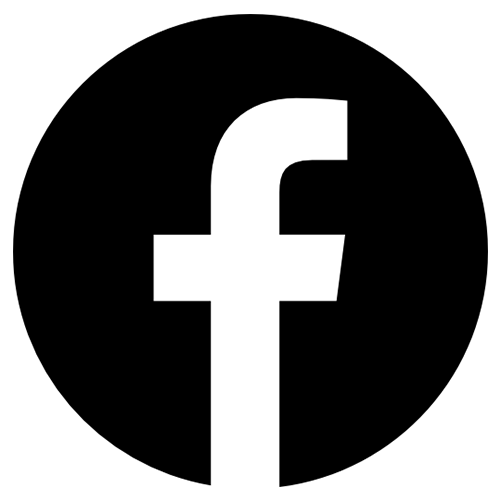
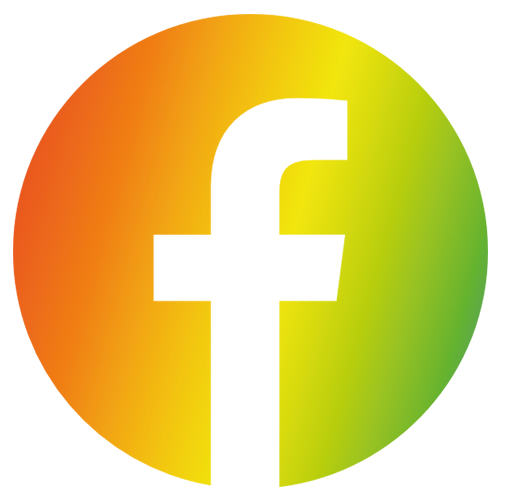
tirar o bg branco de apoio - e add os icones
proprios, por favor

editar algumas coisas
é isso

diff --git a/client/src/componentes/MainHome/MainHome.js b/client/src/componentes/MainHome/MainHome.js
@@ -14,10 +14,7 @@ import { images } from '../../data/img';
 
 
 
-function MainHome() {
-
-
-    const dataEvento = new Date(2025, 4, 7, 8, 0, 0); // Ano, Mês (0-11), Dia, Hora, Minuto, Segundo -- O mês de março é o número 2 no JavaScript, pois os meses são indexados a partir de 0.
+function MainHome() {    
 
     const [bgIndex, setBgIndex] = useState(0);
 
@@ -34,6 +31,16 @@ function MainHome() {
         return () => clearInterval(interval);
     }, []);
 
+    const [isMobile, setIsMobile] = useState(window.innerWidth <= 768);
+
+    useEffect(() => {
+        const handleResize = () => setIsMobile(window.innerWidth <= 768);
+        window.addEventListener('resize', handleResize);
+        return () => window.removeEventListener('resize', handleResize);
+    }, []);
+
+    // DAQUI PRA CIMA É EFEITO DO BG
+
     // Estado para armazenar a contagem regressiva
     const [contagem, setContagem] = useState({
         dias: 0,
@@ -41,6 +48,10 @@ function MainHome() {
         minutos: 0,
         segundos: 0,
     });
+
+    
+
+    const dataEvento = new Date(2025, 4, 7, 8, 0, 0); // Ano, Mês (0-11), Dia, Hora, Minuto, Segundo -- O mês de março é o número 2 no JavaScript, pois os meses são indexados a partir de 0.
 
     // Efeito para atualizar a contagem regressiva a cada segundo
     useEffect(() => {
@@ -84,17 +95,11 @@ function MainHome() {
         return () => typed.destroy();
     }, []);
 
-    const [isMobile, setIsMobile] = useState(window.innerWidth <= 768);
-
-    useEffect(() => {
-        const handleResize = () => setIsMobile(window.innerWidth <= 768);
-        window.addEventListener('resize', handleResize);
-        return () => window.removeEventListener('resize', handleResize);
-    }, []);
+    
 
     return (
 
-        <section className='sectionMain' style={{ backgroundImage: isMobile ? 'none' : `url(${images[bgIndex]})` }}>
+        <section style={{ backgroundImage: isMobile ? 'none' : `url(${images[bgIndex]})`}}>
 
             <div className='mainHome'>
 

diff --git a/client/src/componentes/apoio/Apoio.js b/client/src/componentes/apoio/Apoio.js
@@ -1,13 +1,42 @@
 import "./Apoio.css";
 
+import { useEffect, useState } from 'react';
+
+
+import { imagesRight } from '../../data/img';
+
 function Apoio(){
-        
+
+
+    const [bgIndex, setBgIndex] = useState(0);
+    
+    useEffect(() => {
+        const indiceAleatorio = Math.floor(Math.random() * 4) + 1; // Gera um número entre 1 e 4
+        setBgIndex(indiceAleatorio);
+        }, []);
+
+    useEffect(() => {
+        const interval = setInterval(() => {
+        setBgIndex((prevIndex) => (prevIndex + 1) % imagesRight.length);
+        }, 7000);
+
+        return () => clearInterval(interval);
+    }, []);
+
+    const [isMobile, setIsMobile] = useState(window.innerWidth <= 768);
+
+    useEffect(() => {
+        const handleResize = () => setIsMobile(window.innerWidth <= 768);
+        window.addEventListener('resize', handleResize);
+        return () => window.removeEventListener('resize', handleResize);
+    }, []);
+    
    
 
     return (
               
 
-        <section>
+        <section  style={{ backgroundImage: isMobile ? 'none' : `url(${imagesRight[bgIndex]})`}}>
 
             <h1 className="titulo">Apoio</h1>
 
@@ -54,6 +83,8 @@ function Apoio(){
                     <img className="imagem-apoio" src="https://onedrive.live.com/embed?resid=3282EDF418D3DB36%21157&authkey=%21AI3VsfN35ihYRGU"/>
                 </a>
             </div>
+
+            
 
 
 

diff --git a/client/src/componentes/cardLocation/cardLocation.js b/client/src/componentes/cardLocation/cardLocation.js
@@ -1,11 +1,34 @@
-import './cardLocation.css'
+import './cardLocation.css';
+
+import { useEffect, useState } from 'react';
+
+import { imagesLeft } from '../../data/img';
 
 
 function CardLocation(props) {
 
+    const [isMobile, setIsMobile] = useState(window.innerWidth <= 768);
+
+    const [bgIndex, setBgIndex] = useState(0);
+
+    useEffect(() => {
+            const interval = setInterval(() => {
+            setBgIndex((prevIndex) => (prevIndex + 1) % imagesLeft.length);
+            }, 7000);
+    
+            return () => clearInterval(interval);
+        }, []);
+
+    
+    useEffect(() => {
+        const handleResize = () => setIsMobile(window.innerWidth <= 768);
+        window.addEventListener('resize', handleResize);
+        return () => window.removeEventListener('resize', handleResize);
+    }, []);
+    
     return (
 
-        <section>
+        <section style={{ backgroundImage: isMobile ? 'none' : `url(${imagesLeft[bgIndex]})` }}>
 
             <h1 className="titulo">{props.title}</h1>
 
@@ -15,7 +38,7 @@ function CardLocation(props) {
 
                     
 
-            <div className="degrade"></div>
+            <div className="degradeNovo"></div>
         </section>
     );
 }

diff --git a/client/src/index.css b/client/src/index.css
@@ -42,8 +42,12 @@ section {
   background-position: center;
   background-repeat: no-repeat;
   min-height: 100vh;
+  
   overflow: hidden; /* Evita problemas de layout */
 }
+
+
+
 
 
 /* section::before {
@@ -99,11 +103,15 @@ section {
 
 .degradeNovo {
   background: linear-gradient(90deg, 
-  #e52320, #ee7316, #f1e30d, #79b929, #32778c, #234999, #452879, #e52320);
+  #e52320, #ee7316, #f1e30d, #79b929, #32778c, #234999, #452879, #e52320, #ee7316);
   background-size: 400% 400%;
   height: 4px;
-  width: 50vw;
+  width: 70vw;
   animation: hueShift 5s linear infinite;
+}
+
+.maior {
+  width: 90vw;
 }
 
 @keyframes hueShift {
@@ -117,8 +125,7 @@ section {
   font-size: 30px;
   color: red;
   
-  padding-bottom: 10px;
-  margin-top: 10px;
+ 
 
 
 }
@@ -129,12 +136,12 @@ section {
   100% { background-position: 0% 50%; }
 }
 
-.titulo{
+.titulo, footer{
   background: linear-gradient(90deg, 
       #e52320, #ee7316, #f1e30d, 
       #79b929, #32778c, #234999, 
-      #452879, #e52320);
-  background-size: 300% 300%;
+      #452879, #e52320, #ee7316);
+  background-size: 400% 400%;
   background-clip: text;
   -webkit-background-clip: text;
   -webkit-text-fill-color: transparent;

diff --git a/client/src/componentes/Footer/Footer.css b/client/src/componentes/Footer/Footer.css
@@ -18,14 +18,15 @@
 
 footer {
     /* Altura do elemento. */
-    height: 80px;
-    background-color: var(--verdeEscuro);
+    height: 90px;
+    
     display: flex;
     flex-direction: column;
-    justify-content: center;
+    justify-content: space-around;
     align-items: center;
-    color: var(--bgDark);
+    
     font-weight: bold;
+    
 
     
 
@@ -36,13 +37,14 @@ footer {
 
 .pFooter {
     font-size: 18px;
-    color: var(--bgDark);
+    
     font-weight: bolder;
     align-items: center;
     justify-content: center;
     padding: 0px;
 
     text-align: center;
+    margin-bottom: 10px;
 
 
 

diff --git a/client/src/data/img.js b/client/src/data/img.js
@@ -2,3 +2,7 @@ const importAll = (r) => r.keys().map(r);
 
 export const images = importAll(require.context("../img/bg-section", false, /\.(png|jpe?g|svg)$/));
 
+export const imagesLeft = importAll(require.context("../img/bg-section-left", false, /\.(png|jpe?g|svg)$/));
+
+export const imagesRight = importAll(require.context("../img/bg-section-right", false, /\.(png|jpe?g|svg)$/));
+

diff --git a/client/src/componentes/Footer/Footer.js b/client/src/componentes/Footer/Footer.js
@@ -13,7 +13,11 @@ function Footer() {
 
         <>
 
+        
+
         <footer>
+
+            <div className="degradeNovo maior" style={{ marginBottom: '15px'}}></div>
 
 
             <div id="sociais" className="container-sociais">

diff --git a/client/src/componentes/Section/Section.css b/client/src/componentes/Section/Section.css
@@ -1,20 +1,3 @@
-section {
-    
-    color: var(--fontWhite);
-    display: flex;
-    align-items: center;
-    justify-content: space-around;
-    flex-direction: column;
-    
-
-    
-    
-
-   
-    
-
-}
-
 
 .imgSlider {
 

diff --git a/client/src/componentes/ApresentacaoSection/ApresentacaoSection.css b/client/src/componentes/ApresentacaoSection/ApresentacaoSection.css
@@ -1,17 +1,3 @@
-section {
-
-    color: var(--fontWhite);
-    display: flex;
-    align-items: center;
-    justify-content: space-around;
-    flex-direction: column;
-    
-
-
-}
-
-
-
 .botaoVerTodos {
 
     width: auto;

diff --git a/client/src/componentes/GameSection/GameSection.css b/client/src/componentes/GameSection/GameSection.css
@@ -1,16 +1,3 @@
-section {
-
-    color: var(--fontWhite);
-    display: flex;
-    align-items: center;
-    justify-content: space-around;
-    flex-direction: column;
-    
-
-
-}
-
-
 
 .botaoVerTodos {
 

diff --git a/client/src/componentes/OficinaSection/OficinaSection.css b/client/src/componentes/OficinaSection/OficinaSection.css
@@ -1,16 +1,3 @@
-section {
-
-    color: var(--fontWhite);
-    display: flex;
-    align-items: center;
-    justify-content: space-around;
-    flex-direction: column;
-    
-
-
-}
-
-
 
 .botaoVerTodos {
 

diff --git a/client/src/componentes/PalestraSection/PalestraSection.css b/client/src/componentes/PalestraSection/PalestraSection.css
@@ -1,16 +1,3 @@
-section {
-
-    color: var(--fontWhite);
-    display: flex;
-    align-items: center;
-    justify-content: space-around;
-    flex-direction: column;
-    
-
-
-}
-
-
 
 .botaoVerTodos {
 
